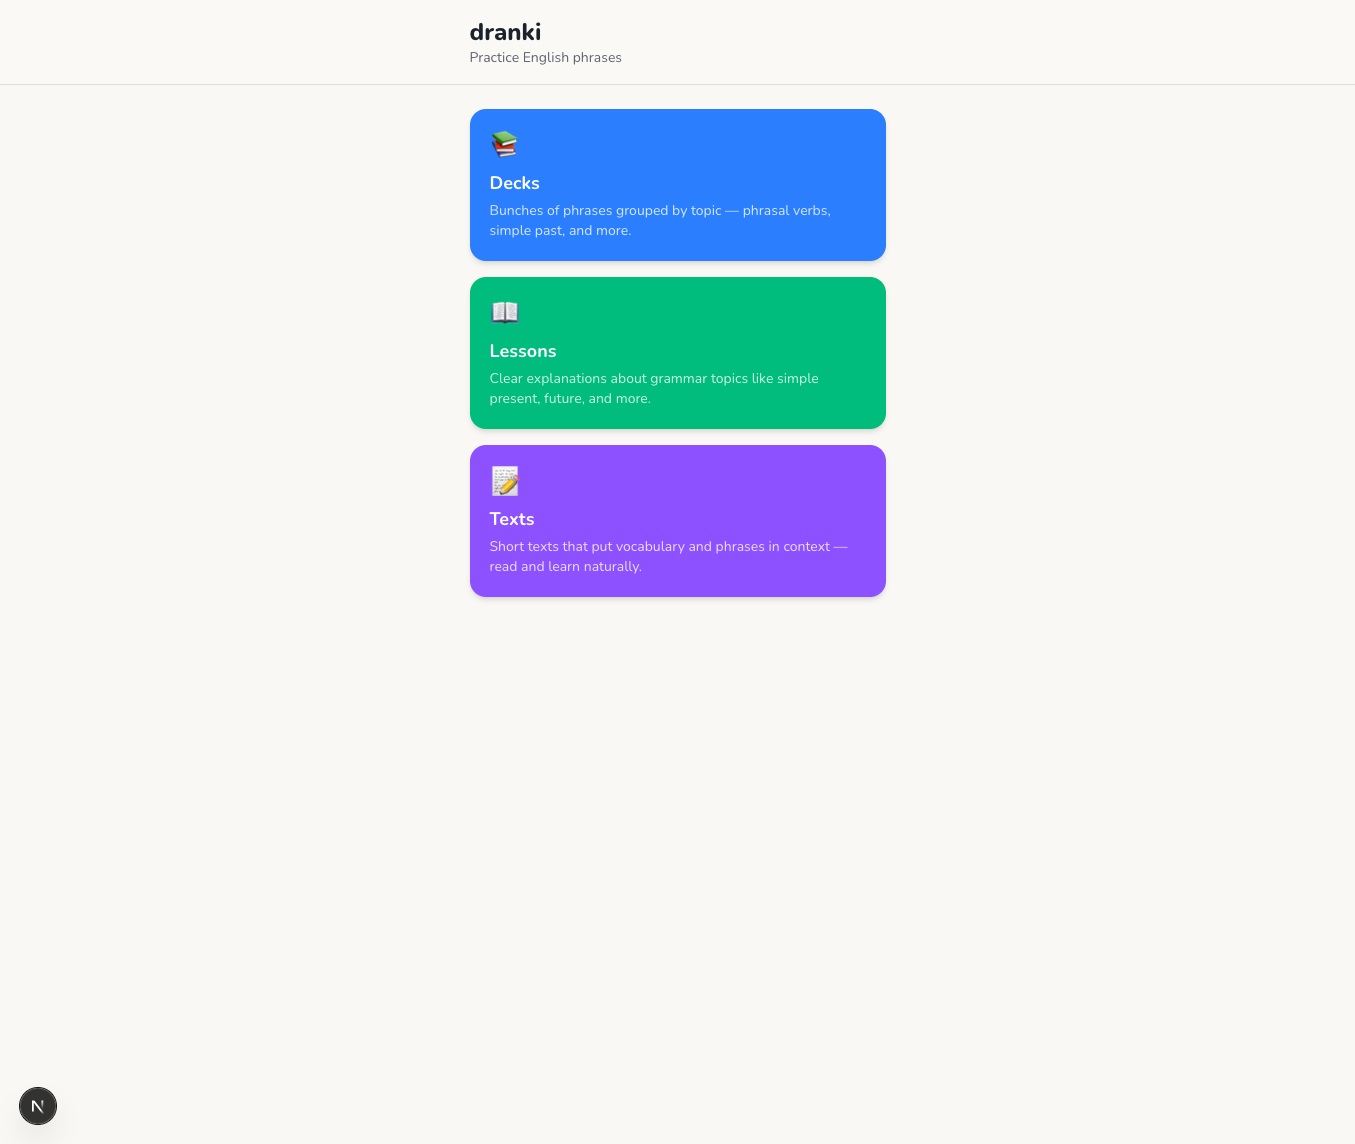
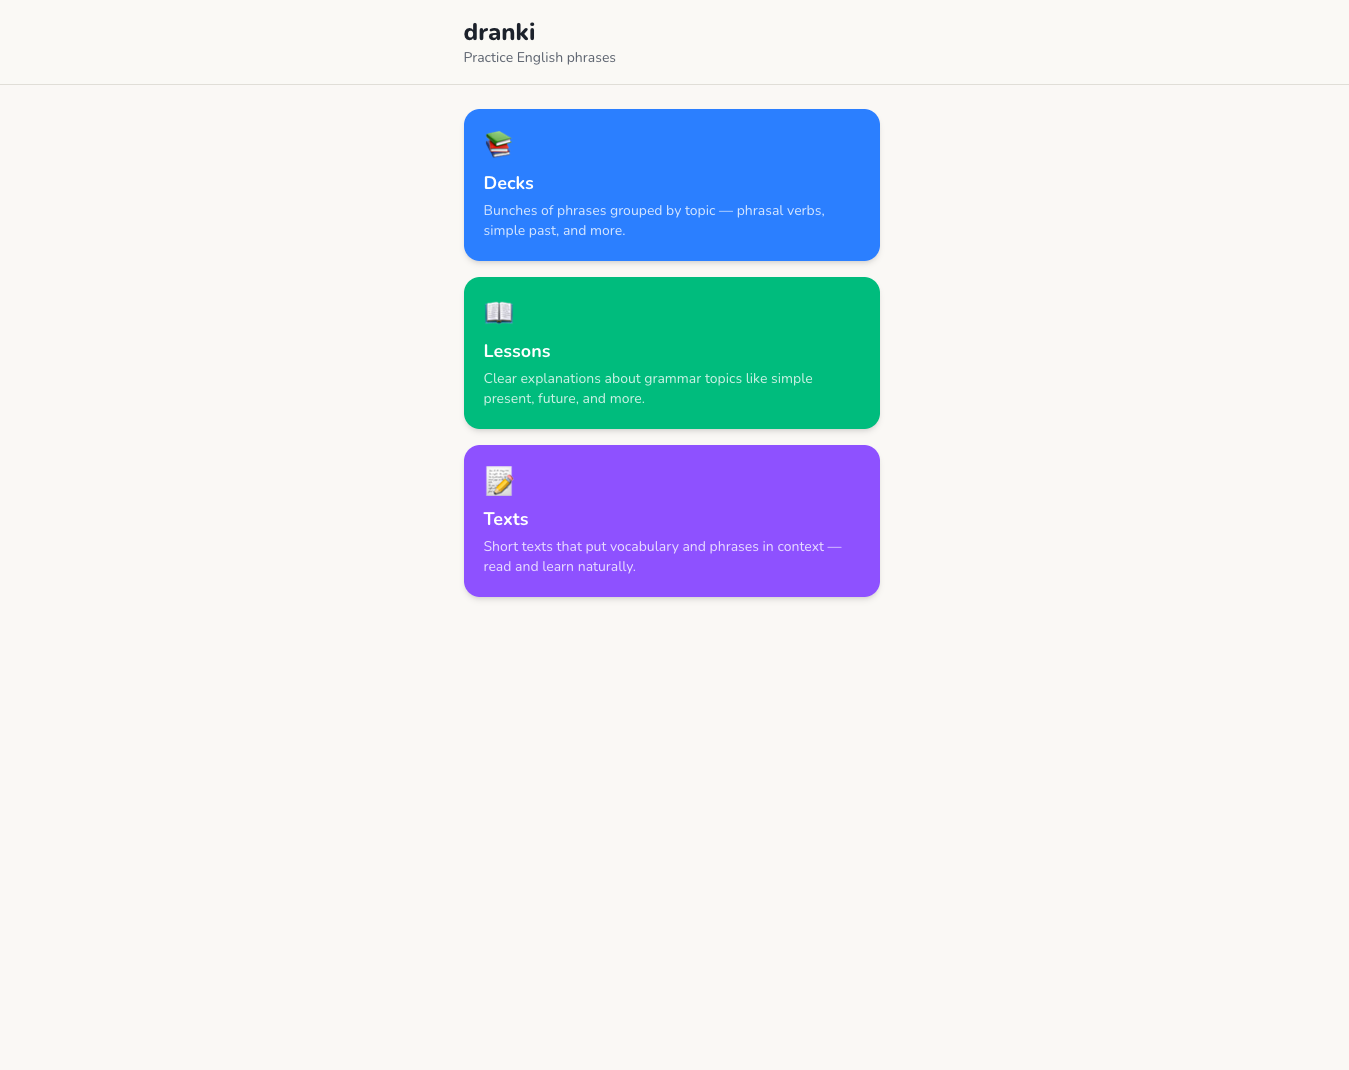
style: minor improvements

Changed region(s): [[0.3425, 0.0925, 0.6538, 0.586], [0.3425, 0.0, 0.467, 0.0617], [0.0, 0.9561, 0.0623, 0.9869]]

diff --git a/src/features/pages/decks/pages/[deck-id]/components/practice-view/components/swipeable-card.tsx b/src/features/pages/decks/pages/[deck-id]/components/practice-view/components/swipeable-card.tsx
@@ -40,6 +40,7 @@ function SwipeableCard({
 	const [isSentenceVisible, setIsSentenceVisible] = useState(showSentenceByDefault);
 	const [isTranslationVisible, setIsTranslationVisible] = useState(showTranslationByDefault);
 	const [audioState, setAudioState] = useState<AudioState>("idle");
+	const [wasCurrentOnMount] = useState(isCurrentCard);
 	const utteranceRef = useRef<SpeechSynthesisUtterance>(null);
 
 	// --- COMPUTED STATES ---
@@ -66,7 +67,7 @@ function SwipeableCard({
 			"absolute inset-0 touch-none select-none",
 			isCurrentCard ? "cursor-grab" : "pointer-events-none",
 			isDragging && "cursor-grabbing",
-			isCurrentCard && "animate-in fade-in-0 zoom-in-95 duration-300",
+			isCurrentCard && wasCurrentOnMount && "animate-in fade-in-0 zoom-in-95 duration-300",
 		),
 		card: "absolute inset-0 flex flex-col overflow-hidden rounded-3xl shadow-xl bg-blue-600 text-white",
 		practiceMoreIndicator: cn(

diff --git a/src/components/layout/breadcrumb.tsx b/src/components/layout/breadcrumb.tsx
@@ -1,7 +1,6 @@
 "use client";
 
 import cn from "@diegofrayo-pkg/cn";
-import { withRenderInBrowser } from "@diegofrayo-pkg/hocs";
 import type ReactTypes from "@diegofrayo-pkg/types/react";
 
 import { Box, Link, Paragraph } from "~/components/primitive";
@@ -19,7 +18,7 @@ function Breadcrumb(): ReactTypes.JSXElementNullable {
 
 	// --- STYLES ---
 	const classes = {
-		nav: "mt-1 flex items-center gap-1 text-sm",
+		nav: "flex items-center gap-1 text-sm pt-3 pb-6",
 		homeLink: "text-muted-foreground transition-colors hover:text-foreground font-bold",
 		crumbItem: (isLast: boolean): string =>
 			cn("flex items-center gap-1", isLast && "min-w-0 flex-1"),
@@ -62,7 +61,7 @@ function Breadcrumb(): ReactTypes.JSXElementNullable {
 	);
 }
 
-export default withRenderInBrowser(Breadcrumb);
+export default Breadcrumb;
 
 // --- COMPONENTS ---
 

diff --git a/src/features/pages/decks/pages/[deck-id]/context/deck-session-context.tsx b/src/features/pages/decks/pages/[deck-id]/context/deck-session-context.tsx
@@ -26,6 +26,7 @@ type DeckSessionContextValue = {
 	markPracticeMore: () => void;
 	markRecognized: () => void;
 	setAutoPlayAudio: (value: boolean) => void;
+	setPhase: (value: Phase) => void;
 	setShowSentenceByDefault: (value: boolean) => void;
 	setShowTranslationByDefault: (value: boolean) => void;
 	startSession: () => void;
@@ -143,7 +144,6 @@ function DeckSessionProvider({ deck, children }: DeckSessionProviderProps): Reac
 		clearShowTranslationByDefault();
 		clearStartTime();
 		clearEndTime();
-		setPhase("overview");
 	}
 
 	return (
@@ -167,6 +167,7 @@ function DeckSessionProvider({ deck, children }: DeckSessionProviderProps): Reac
 				setShowSentenceByDefault,
 				setShowTranslationByDefault,
 				startSession,
+				setPhase,
 			}}
 		>
 			{children}

diff --git a/src/routes/__root.tsx b/src/routes/__root.tsx
@@ -1,3 +1,6 @@
+// import nunitoLatinUrl from "@fontsource-variable/nunito/files/nunito-latin-wght-normal.woff2?url";
+//
+
 import { createRootRoute, HeadContent, Outlet, Scripts } from "@tanstack/react-router";
 
 import type ReactTypes from "@diegofrayo-pkg/types/react";
@@ -21,6 +24,15 @@ export const Route = createRootRoute({
 		],
 		links: [
 			{ rel: "stylesheet", href: "/src/routes/app.css" },
+			/*
+			{
+				rel: "preload",
+				href: nunitoLatinUrl,
+				as: "font",
+				type: "font/woff2",
+				crossOrigin: "anonymous",
+			},
+      */
 			{ rel: "icon", href: `${FAVICON_PATH}/favicon-16x16.png`, sizes: "16x16", type: "image/png" },
 			{ rel: "icon", href: `${FAVICON_PATH}/favicon-32x32.png`, sizes: "32x32", type: "image/png" },
 			{

diff --git a/src/features/pages/decks/pages/[deck-id]/components/practice-view/components/practice-cards.tsx b/src/features/pages/decks/pages/[deck-id]/components/practice-view/components/practice-cards.tsx
@@ -50,7 +50,7 @@ function PracticeCards(): ReactTypes.JSXElement {
 			<Box className={classes.cardArea}>
 				{nextPhrase !== undefined && (
 					<SwipeableCard
-						key={`next-${currentIndex + 1}`}
+						key={`card-${currentIndex + 1}`}
 						autoPlayAudio={autoPlayAudio}
 						deckTheme={deck.theme}
 						isCurrentCard={false}
@@ -63,7 +63,7 @@ function PracticeCards(): ReactTypes.JSXElement {
 				)}
 				{currentPhrase !== undefined && (
 					<SwipeableCard
-						key={`top-${currentIndex}`}
+						key={`card-${currentIndex}`}
 						autoPlayAudio={autoPlayAudio}
 						deckTheme={deck.theme}
 						isCurrentCard={true}

diff --git a/src/features/pages/decks/pages/[deck-id]/components/results-screen.tsx b/src/features/pages/decks/pages/[deck-id]/components/results-screen.tsx
@@ -24,7 +24,7 @@ import { useDeckSession } from "../context/deck-session-context";
 
 function ResultsScreen(): ReactTypes.JSXElement {
 	// --- HOOKS ---
-	const { deck, endTime, practiceMoreCount, recognizedCount, startTime, clearSession } =
+	const { deck, endTime, practiceMoreCount, recognizedCount, startTime, clearSession, setPhase } =
 		useDeckSession();
 
 	// --- COMPUTED STATES ---
@@ -61,6 +61,7 @@ function ResultsScreen(): ReactTypes.JSXElement {
 	// --- HANDLERS ---
 	function handleRestartClick(): void {
 		clearSession();
+		setPhase("overview");
 	}
 
 	// --- EFFECTS ---

diff --git a/src/features/pages/decks/pages/[deck-id]/components/practice-view/practice-view.tsx b/src/features/pages/decks/pages/[deck-id]/components/practice-view/practice-view.tsx
@@ -26,7 +26,7 @@ import ProgressBar from "./components/progress-bar";
 
 function PracticeView(): ReactTypes.JSXElement {
 	// --- HOOKS ---
-	const { deck, currentIndex, phrases, clearSession } = useDeckSession();
+	const { deck, currentIndex, phrases, clearSession, setPhase } = useDeckSession();
 	const router = useRouter();
 
 	// --- STATES & REFS ---
@@ -67,6 +67,7 @@ function PracticeView(): ReactTypes.JSXElement {
 
 	function handleRestartConfirm(): void {
 		clearSession();
+		setPhase("overview");
 	}
 
 	function handleRestartDialogOpenChange(open: boolean): void {

diff --git a/src/features/pages/texts/pages/[text-id]/components/text-content.tsx b/src/features/pages/texts/pages/[text-id]/components/text-content.tsx
@@ -6,8 +6,7 @@ import { withRenderInBrowser } from "@diegofrayo-pkg/hocs";
 import type ReactTypes from "@diegofrayo-pkg/types/react";
 
 import { MarkdownRenderer } from "~/components/common";
-import { Box, Button, Icon } from "~/components/primitive";
-import { IconCatalog } from "~/components/primitive/icon/icons";
+import { Box, Button, Icon, IconCatalog } from "~/components/primitive";
 
 type TextContentProps = {
 	content: string;

diff --git a/src/components/common/markdown-renderer/markdown-renderer.module.css b/src/components/common/markdown-renderer/markdown-renderer.module.css
@@ -54,11 +54,11 @@
 }
 
 .table-wrapper {
-	@apply mb-4 overflow-x-auto;
+	@apply border-border mb-4 overflow-x-auto border;
 }
 
 .table {
-	@apply border-border w-full border-collapse;
+	@apply w-full;
 }
 
 .thead {
@@ -66,7 +66,7 @@
 }
 
 .tr {
-	@apply border-border border-b;
+	@apply border-border border-b last:border-0;
 }
 
 .th {

diff --git a/src/components/layout/main-layout.tsx b/src/components/layout/main-layout.tsx
@@ -47,7 +47,7 @@ function MainLayout({ children }: MainLayoutProps): ReactTypes.JSXElement {
 					</Box>
 				</Box>
 
-				<Box className="bg-background z-40 mx-auto w-full max-w-md px-4 py-2">
+				<Box className="bg-background z-40 mx-auto w-full max-w-md px-4">
 					<Breadcrumb />
 				</Box>
 			</Box>

diff --git a/src/routes/app.css b/src/routes/app.css
@@ -4,5 +4,11 @@
 
 @theme inline {
 	--font-sans: "Nunito Variable", "Tahoma", system-ui, sans-serif;
-	--font-mono: "Geist Mono", "Geist Mono Fallback";
 }
+
+/*
+@font-face {
+	font-family: "Nunito Variable";
+	font-display: optional;
+}
+*/

diff --git a/vite.config.ts b/vite.config.ts
@@ -37,6 +37,7 @@ function frameworkAdapterPlugin(): Plugin {
 
 export default defineConfig({
 	server: {
+		host: true,
 		port: 3000,
 	},
 	resolve: {
